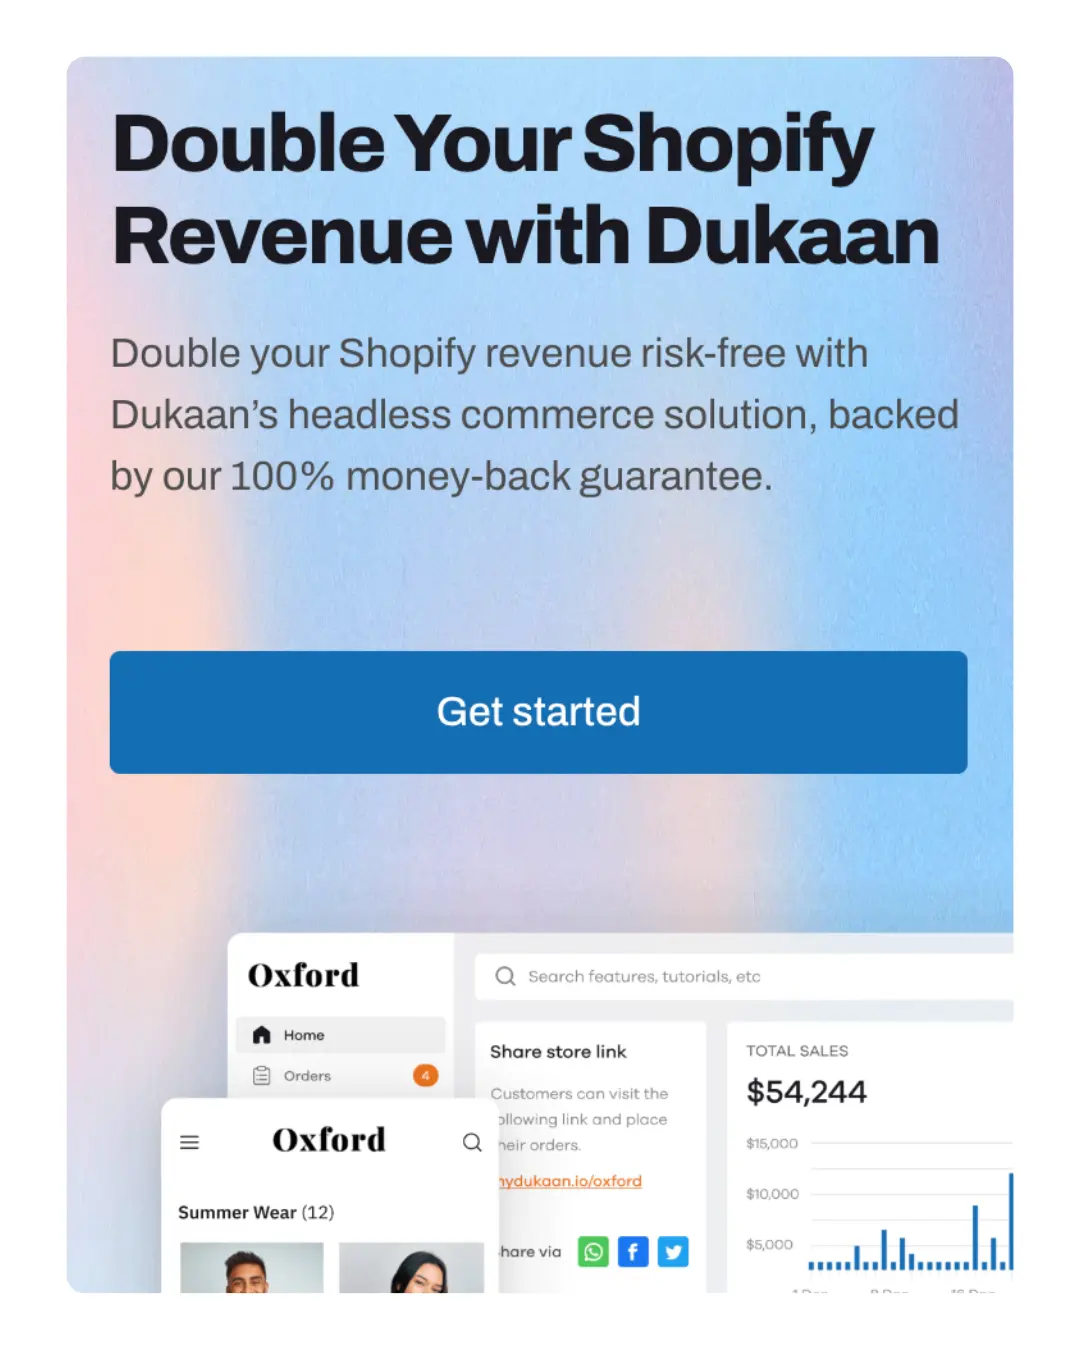
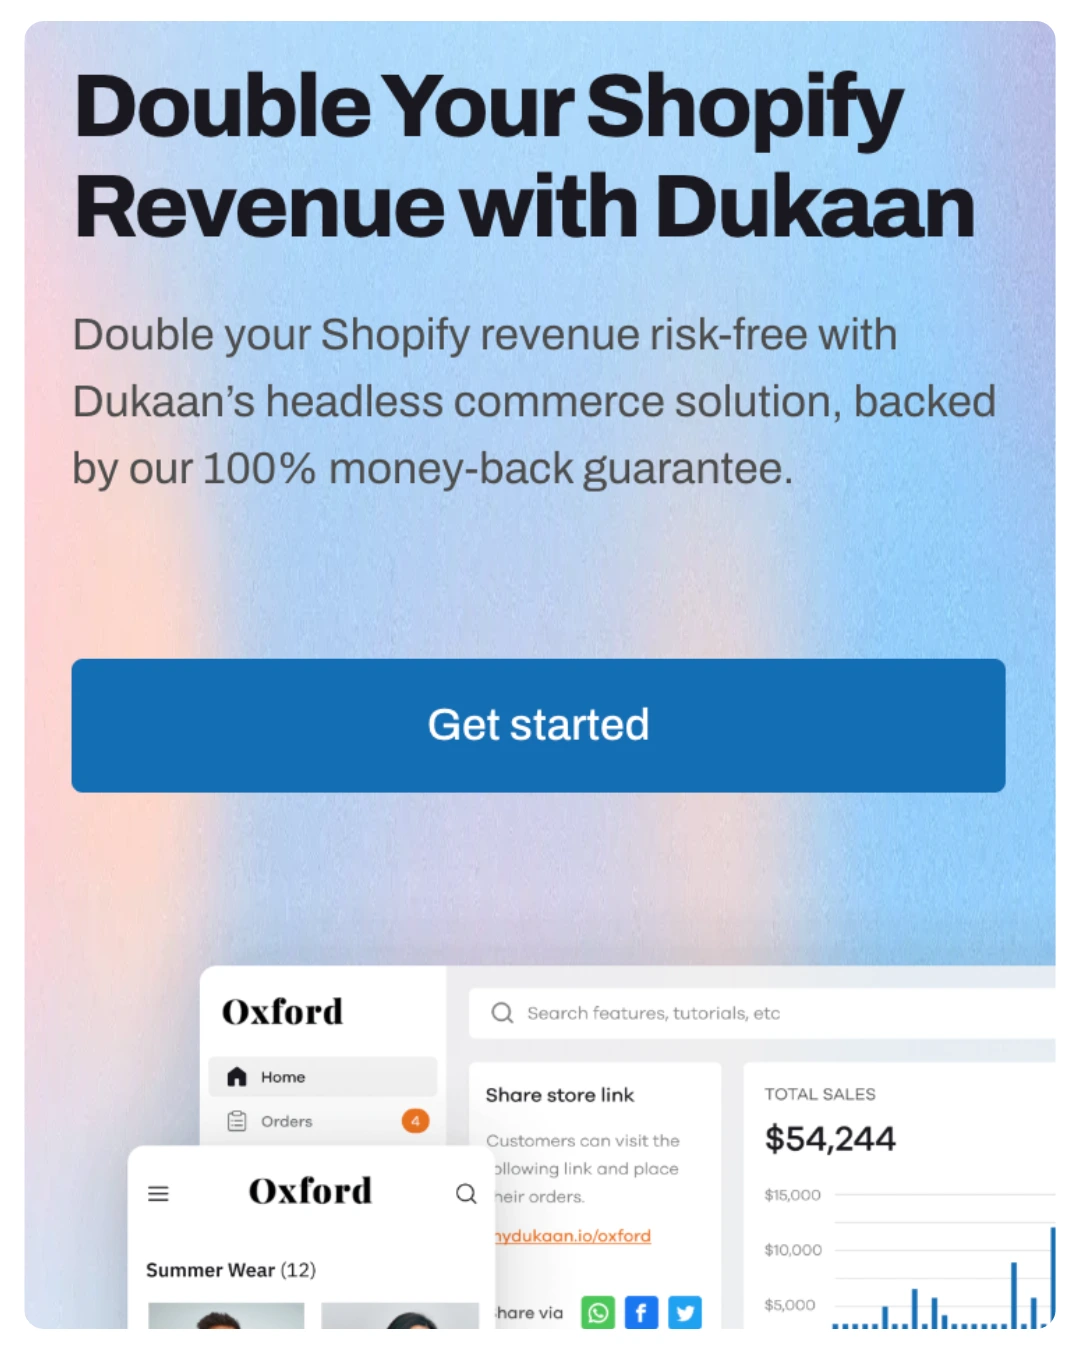
chore: update images

diff --git a/assets/css/styles.css b/assets/css/styles.css
@@ -574,7 +574,7 @@ span.highlight {
   height: 400px;
   aspect-ratio: 4/5;
   transform: rotate(-2deg);
-  border-radius: 30px;
+  border-radius: 10px !important;
 }
 
 .work-item .main-img {
